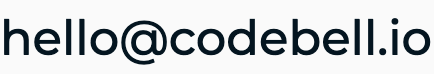
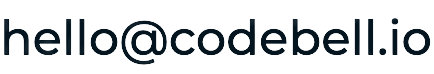
get in touch image updated in dark,light mode

diff --git a/index.html b/index.html
@@ -91,9 +91,11 @@
                     <path fill-rule="evenodd"
                         d="M2.5 12a.5.5 0 0 1 .5-.5h10a.5.5 0 0 1 0 1H3a.5.5 0 0 1-.5-.5zm0-4a.5.5 0 0 1 .5-.5h10a.5.5 0 0 1 0 1H3a.5.5 0 0 1-.5-.5zm0-4a.5.5 0 0 1 .5-.5h10a.5.5 0 0 1 0 1H3a.5.5 0 0 1-.5-.5z" />
                 </svg>
-                <svg class="close-btn" xmlns="http://www.w3.org/2000/svg" width="20" height="20" fill="currentColor" class="bi bi-x-lg" viewBox="0 0 16 16">
-                    <path d="M2.146 2.854a.5.5 0 1 1 .708-.708L8 7.293l5.146-5.147a.5.5 0 0 1 .708.708L8.707 8l5.147 5.146a.5.5 0 0 1-.708.708L8 8.707l-5.146 5.147a.5.5 0 0 1-.708-.708L7.293 8 2.146 2.854Z"/>
-                  </svg>
+                <svg class="close-btn" xmlns="http://www.w3.org/2000/svg" width="20" height="20" fill="currentColor"
+                    class="bi bi-x-lg" viewBox="0 0 16 16">
+                    <path
+                        d="M2.146 2.854a.5.5 0 1 1 .708-.708L8 7.293l5.146-5.147a.5.5 0 0 1 .708.708L8.707 8l5.147 5.146a.5.5 0 0 1-.708.708L8 8.707l-5.146 5.147a.5.5 0 0 1-.708-.708L7.293 8 2.146 2.854Z" />
+                </svg>
             </div>
             <div class="dropdown-menu flex column gap">
                 <ul class="flex column gap">
@@ -470,12 +472,12 @@
                             </svg>
                         </div>
                         <div class="test-desc">
-                            <p>“Outstanding! CarConnect is a game-changer for car owners. The QR code technology and privacy assurance are incredible.”</p>
+                            <p>“Outstanding! CarConnect is a game-changer for car owners. The QR code technology and
+                                privacy assurance are incredible.”</p>
                         </div>
                         <div class="flex middle gap">
                             <div class="img-fill">
-                                <img src="/assets/img/profile.webp"
-                                alt="client">                                 
+                                <img src="/assets/img/profile.webp" alt="client">
                             </div>
                             <div class="flex column top" style="gap: 0.2em;">
                                 <h4>Rajesh Kumar</h4>
@@ -494,12 +496,12 @@
                             </svg>
                         </div>
                         <div class="test-desc">
-                            <p>“Exceptional! CarConnect is a fantastic product! As a single woman living in Bangalore, I appreciate the added security it provides.”</p>
+                            <p>“Exceptional! CarConnect is a fantastic product! As a single woman living in Bangalore, I
+                                appreciate the added security it provides.”</p>
                         </div>
                         <div class="flex middle gap">
                             <div class="img-fill">
-                                <img src="/assets/img/profile.webp"
-                                    alt="client">
+                                <img src="/assets/img/profile.webp" alt="client">
                             </div>
                             <div class="flex column top" style="gap: 0.2em;">
                                 <h4>Anjali Singh</h4>
@@ -524,8 +526,7 @@
                         </div>
                         <div class="flex middle gap">
                             <div class="img-fill">
-                                <img src="/assets/img/profile.webp"
-                                    alt="client">
+                                <img src="/assets/img/profile.webp" alt="client">
                             </div>
                             <div class="flex column top" style="gap: 0.2em;">
                                 <h4>Mrs. Khan</h4>
@@ -710,7 +711,7 @@
                             </div>
                             <p style="display:flex; ">Manage multiple codebell</p>
                         </div>
-                       
+
                     </div>
                     <a href="contact.html" class="button">Get Started</a>
 
@@ -1208,14 +1209,12 @@
             </div>
             <div class="flex column gap" style="color: var(--text-color); min-width:300px">
                 <h3>Get in touch</h3>
-                <div class="flex column" style="gap: 0;">
-                    <a href="#" id="supportLink">
-                        <img src="/assets/img/support_gmail.webp" alt="">
-                    </a>
-                    <a href="#" id="businessLink">
-                        <img src="/assets/img/business.webp" alt="" style="max-width: 60%;">
-                    </a>
-                </div>
+                <p><a href="#" style="display: block;" id="supportLink">
+                        <img src="/assets/img/email_light.png" alt="" style="height: 25px;">
+                    </a></p>
+                <p><a href="#" id="businessLink" style="display: block;">
+                        <img src="/assets/img/phone_light.png" alt="" style="height: 25px;">
+                    </a></p>
             </div>
 
         </section>

diff --git a/demo.html b/demo.html
@@ -1210,14 +1210,12 @@
             </div>
             <div class="flex column gap" style="color: var(--text-color); min-width:300px">
                 <h3>Get in touch</h3>
-                <div class="flex column" style="gap: 0;">
-                    <a href="#" id="supportLink">
-                        <img src="/assets/img/support_gmail.webp" alt="">
-                    </a>
-                    <a href="#" id="businessLink">
-                        <img src="/assets/img/business.webp" alt="" style="max-width: 60%;">
-                    </a>
-                </div>
+                <p><a href="#" style="display: block;" id="supportLink">
+                    <img src="/assets/img/email_light.png" alt="" style="height: 25px;">
+                </a></p>
+            <p><a href="#" id="businessLink" style="display: block;">
+                    <img src="/assets/img/phone_light.png" alt="" style="height: 25px;">
+                </a>
             </div>
 
         </section>

diff --git a/home.html b/home.html
@@ -1033,14 +1033,12 @@
             </div>
             <div class="flex column gap" style="color: var(--text-color); min-width:300px">
                 <h3>Get in touch</h3>
-                <div class="flex column" style="gap: 0;">
-                    <a href="#" id="supportLink">
-                        <img src="/assets/img/support_gmail.webp" alt="">
-                    </a>
-                    <a href="#" id="businessLink">
-                        <img src="/assets/img/business.webp" alt="" style="max-width: 60%;">
-                    </a>
-                </div>
+                <p><a href="#" style="display: block;" id="supportLink">
+                    <img src="/assets/img/email_light.png" alt="" style="height: 25px;">
+                </a></p>
+            <p><a href="#" id="businessLink" style="display: block;">
+                    <img src="/assets/img/phone_light.png" alt="" style="height: 25px;">
+                </a>
             </div>
 
         </section>

diff --git a/about_us.html b/about_us.html
@@ -300,14 +300,12 @@
             </div>
             <div class="flex column gap" style="color: var(--text-color); min-width:300px">
                 <h3>Get in touch</h3>
-                <div class="flex column" style="gap: 0;">
-                    <a href="#" id="supportLink">
-                        <img src="/assets/img/support_gmail.webp" alt="">
-                    </a>
-                    <a href="#" id="businessLink">
-                        <img src="/assets/img/business.webp" alt="" style="max-width: 60%;">
-                    </a>
-                </div>
+                <p><a href="#" style="display: block;" id="supportLink">
+                    <img src="/assets/img/email_light.png" alt="" style="height: 25px;">
+                </a></p>
+            <p><a href="#" id="businessLink" style="display: block;">
+                    <img src="/assets/img/phone_light.png" alt="" style="height: 25px;">
+                </a>
             </div>
 
         </section>

diff --git a/car.html b/car.html
@@ -955,14 +955,12 @@
             </div>
             <div class="flex column gap" style="color: var(--text-color); min-width:300px">
                 <h3>Get in touch</h3>
-                <div class="flex column" style="gap: 0;">
-                    <a href="#" id="supportLink">
-                        <img src="/assets/img/support_gmail.webp" alt="">
-                    </a>
-                    <a href="#" id="businessLink">
-                        <img src="/assets/img/business.webp" alt="" style="max-width: 60%;">
-                    </a>
-                </div>
+                <p><a href="#" style="display: block;" id="supportLink">
+                    <img src="/assets/img/email_light.png" alt="" style="height: 25px;">
+                </a></p>
+            <p><a href="#" id="businessLink" style="display: block;">
+                    <img src="/assets/img/phone_light.png" alt="" style="height: 25px;">
+                </a>
             </div>
 
         </section>

diff --git a/codebell-car-safety.html b/codebell-car-safety.html
@@ -433,14 +433,12 @@
             </div>
             <div class="flex column gap" style="color: var(--text-color); min-width:300px">
                 <h3>Get in touch</h3>
-                <div class="flex column" style="gap: 0;">
-                    <a href="#" id="supportLink">
-                        <img src="/assets/img/support_gmail.webp" alt="">
-                    </a>
-                    <a href="#" id="businessLink">
-                        <img src="/assets/img/business.webp" alt="" style="max-width: 60%;">
-                    </a>
-                </div>
+                <p><a href="#" style="display: block;" id="supportLink">
+                    <img src="/assets/img/email_light.png" alt="" style="height: 25px;">
+                </a></p>
+            <p><a href="#" id="businessLink" style="display: block;">
+                    <img src="/assets/img/phone_light.png" alt="" style="height: 25px;">
+                </a>
             </div>
 
         </section>

diff --git a/contact.html b/contact.html
@@ -278,14 +278,12 @@
             </div>
             <div class="flex column gap" style="color: var(--text-color); min-width:300px">
                 <h3>Get in touch</h3>
-                <div class="flex column" style="gap: 0;">
-                    <a href="#" id="supportLink">
-                        <img src="/assets/img/support_gmail.webp" alt="">
-                    </a>
-                    <a href="#" id="businessLink">
-                        <img src="/assets/img/business.webp" alt="" style="max-width: 60%;">
-                    </a>
-                </div>
+                <p><a href="#" style="display: block;" id="supportLink">
+                    <img src="/assets/img/email_light.png" alt="" style="height: 25px;">
+                </a></p>
+            <p><a href="#" id="businessLink" style="display: block;">
+                    <img src="/assets/img/phone_light.png" alt="" style="height: 25px;">
+                </a>
             </div>
 
         </section>

diff --git a/intercom-vs-codebell.html b/intercom-vs-codebell.html
@@ -464,14 +464,12 @@
             </div>
             <div class="flex column gap" style="color: var(--text-color); min-width:300px">
                 <h3>Get in touch</h3>
-                <div class="flex column" style="gap: 0;">
-                    <a href="#" id="supportLink">
-                        <img src="/assets/img/support_gmail.webp" alt="">
-                    </a>
-                    <a href="#" id="businessLink">
-                        <img src="/assets/img/business.webp" alt="" style="max-width: 60%;">
-                    </a>
-                </div>
+                <p><a href="#" style="display: block;" id="supportLink">
+                    <img src="/assets/img/email_light.png" alt="" style="height: 25px;">
+                </a></p>
+            <p><a href="#" id="businessLink" style="display: block;">
+                    <img src="/assets/img/phone_light.png" alt="" style="height: 25px;">
+                </a>
             </div>
 
         </section>

diff --git a/privacy.html b/privacy.html
@@ -615,14 +615,12 @@
             </div>
             <div class="flex column gap" style="color: var(--text-color); min-width:300px">
                 <h3>Get in touch</h3>
-                <div class="flex column" style="gap: 0;">
-                    <a href="#" id="supportLink">
-                        <img src="/assets/img/support_gmail.webp" alt="">
-                    </a>
-                    <a href="#" id="businessLink">
-                        <img src="/assets/img/business.webp" alt="" style="max-width: 60%;">
-                    </a>
-                </div>
+                <p><a href="#" style="display: block;" id="supportLink">
+                    <img src="/assets/img/email_light.png" alt="" style="height: 25px;">
+                </a></p>
+            <p><a href="#" id="businessLink" style="display: block;">
+                    <img src="/assets/img/phone_light.png" alt="" style="height: 25px;">
+                </a>
             </div>
 
         </section>

diff --git a/refund_policy.html b/refund_policy.html
@@ -615,14 +615,12 @@
             </div>
             <div class="flex column gap" style="color: var(--text-color); min-width:300px">
                 <h3>Get in touch</h3>
-                <div class="flex column" style="gap: 0;">
-                    <a href="#" id="supportLink">
-                        <img src="/assets/img/support_gmail.webp" alt="">
-                    </a>
-                    <a href="#" id="businessLink">
-                        <img src="/assets/img/business.webp" alt="" style="max-width: 60%;">
-                    </a>
-                </div>
+                <p><a href="#" style="display: block;" id="supportLink">
+                    <img src="/assets/img/email_light.png" alt="" style="height: 25px;">
+                </a></p>
+            <p><a href="#" id="businessLink" style="display: block;">
+                    <img src="/assets/img/phone_light.png" alt="" style="height: 25px;">
+                </a>
             </div>
 
         </section>

diff --git a/shipping_policy.html b/shipping_policy.html
@@ -616,14 +616,12 @@
             </div>
             <div class="flex column gap" style="color: var(--text-color); min-width:300px">
                 <h3>Get in touch</h3>
-                <div class="flex column" style="gap: 0;">
-                    <a href="#" id="supportLink">
-                        <img src="/assets/img/support_gmail.webp" alt="">
-                    </a>
-                    <a href="#" id="businessLink">
-                        <img src="/assets/img/business.webp" alt="" style="max-width: 60%;">
-                    </a>
-                </div>
+                <p><a href="#" style="display: block;" id="supportLink">
+                    <img src="/assets/img/email_light.png" alt="" style="height: 25px;">
+                </a></p>
+            <p><a href="#" id="businessLink" style="display: block;">
+                    <img src="/assets/img/phone_light.png" alt="" style="height: 25px;">
+                </a>
             </div>
 
         </section>

diff --git a/terms_of_service.html b/terms_of_service.html
@@ -672,14 +672,12 @@
             </div>
             <div class="flex column gap" style="color: var(--text-color); min-width:300px">
                 <h3>Get in touch</h3>
-                <div class="flex column" style="gap: 0;">
-                    <a href="#">
-                        <img src="/assets/img/support_gmail.webp" alt="">
-                    </a>
-                    <a href="#">
-                        <img src="/assets/img/business.webp" alt="" style="max-width: 60%;">
-                    </a>
-                </div>
+                <p><a href="#" style="display: block;" id="supportLink">
+                    <img src="/assets/img/email_light.png" alt="" style="height: 25px;">
+                </a></p>
+            <p><a href="#" id="businessLink" style="display: block;">
+                    <img src="/assets/img/phone_light.png" alt="" style="height: 25px;">
+                </a>
             </div>
 
         </section>
